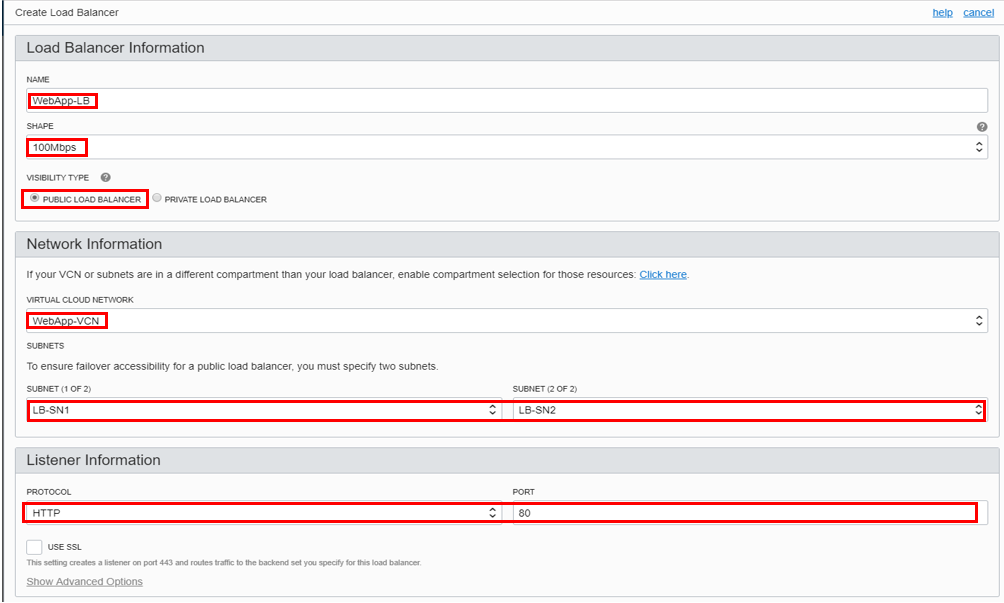
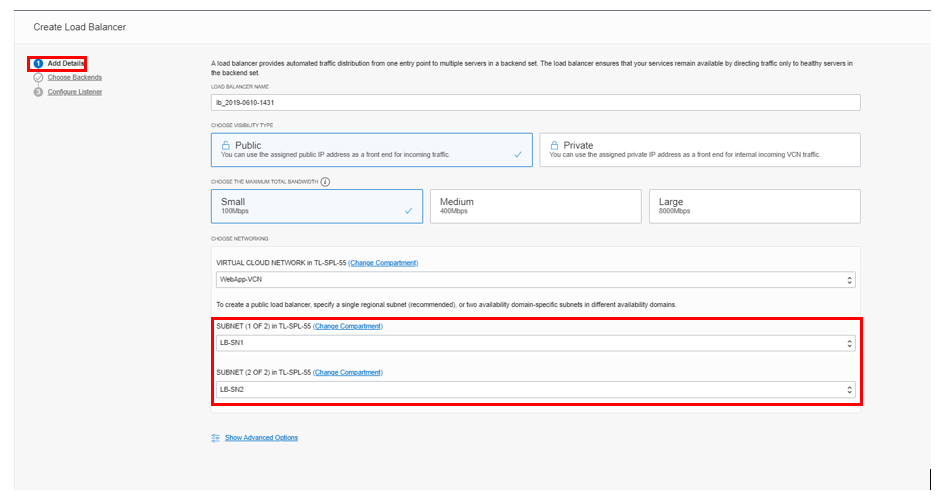
fundamentals lab, UI fixes

diff --git a/oci-library/qloudable/OCI_Fundamentals_Lab/OCI_Fundamentals.md b/oci-library/qloudable/OCI_Fundamentals_Lab/OCI_Fundamentals.md
@@ -279,7 +279,7 @@ We now have two Compute instances with Web servers installed and a basis index.h
 
 Load balancers should always reside in different subnets than your application instances. This allows you to keep your application instances secured in private subnets, while allowing public Internet traffic to the load balancers in the public subnets.
 
-## Create Security List Route table and two subnets
+## Create Security List Route table and additional subnet
 
 In this section we will create a new security list. This security list will be used by the load balancer (that will be created later on). This will ensure all traffic to the two web servers is routed properly.
 
@@ -307,6 +307,8 @@ In this section we will create a new security list. This security list will be u
 - Create in Compartment: This field defaults to your current compartment. Make sure correct Compartment is selected.
 
 **Click +Additional Route Rules**
+
+
 - Target Type: Select **Internet Gateway** 
 - Destination CIDR Block: 0.0.0.0/0 
 - Compartment: Make sure the correct Compartment is selected
@@ -330,6 +332,10 @@ In this section we will create a new security list. This security list will be u
 
 - Name: Enter a name (for example, LB-Subnet-1).
 - Subnet Type: Regional
+
+ **(When using a regional subnet, OCI selects two AD's. If you would like to control which two AD's are used, you would want to create individual AD-speicfic subnets)**
+
+
 - CIDR Block: Enter 10.0.4.0/24 
 - Route Table: Select the Route Table you created earlier.
 - Subnet access: select Public Subnet.
@@ -340,75 +346,59 @@ In this section we will create a new security list. This security list will be u
 
 <img src="https://raw.githubusercontent.com/oracle/learning-library/master/oci-library/qloudable/OCI_Fundamentals_Lab/img/OCI_Fundamentals_004.PNG" alt="image-alt-text" height="200" width="200">
 
-**Second Subnet:** (Your Virtual Cloud Network should be visible in  OCI Console window.)
-
-12. Click **Subnets**.
-
-13. Click **Create Subnet**. Fill out the dialog box:
-
-
-- Name: Enter a name (for example, LB-Subnet-2).
-- Subnet Type: Regional
-- CIDR Block: Enter 10.0.5.0/24 
-- Route Table: Select the Route Table you created earlier.
-- Subnet access: select Public Subnet.
-- DHCP Options: Select the default.
-- Security Lists: Select the Security List you created earlier.
-
-14. Leave all other options as default, Click **Create Subnet**.
 
 ## Create Load Balancer and update Security List
 
-**When you create a load balancer, you choose its shape (size) and you specify two subnets (created earlier) from different Availability Domains. This ensures that the load balancer is highly available and is only active in one subnet at a time.**
+**When you create a load balancer, you choose its shape (size) and you specify subnet (created earlier) from different Availability Domains. This ensures that the load balancer is highly available and is only active in one subnet at a time.**
 
 1. From OCI Services menu, click **Load Balancers** under **Networking**
 
 2. Click **Create Load Balancer**. Fill out the dialog box;
 
-<img src="https://raw.githubusercontent.com/oracle/learning-library/master/oci-library/qloudable/OCI_Fundamentals_Lab/img/OCI_Fundamentals_005.PNG" alt="image-alt-text" height="200" width="200">
-
-**Under Load Balancer Information:**
+**Under Add Details**
 
 
-- Name: Enter a name for your load balancer.
-- Shape: Select 100Mbps. This specifies the bandwidth of the load balancer.
+- LOAD BALANCER NAME: Enter a name for your load balancer.
+- CHOOSE VISIBILITY TYPE: Public
+- CHOOSE THE MAXIMUM TOTAL BANDWIDTH: Select 100Mbps. (This specifies the bandwidth of the load balancer.)
 
 **NOTE:** Shape cannot be changed later.
 
-- Visibility Type: PUBLIC LOAD BALANCER
-
-**Under Network Information:**
-
-
--Virtual Cloud Network: Select the Virtual Cloud Network for your load balancer.
-- Subnet1: Choose the first subnet created earlier
-- Subnet2: Choose the second subnet created earlier 
-
-**Under Listener Information:**
-
-
-- Protocol:  HTTP
-- Port: Enter 80 (as the port on which to listen for incoming traffic)
-
-**Under Backend set Information:**
-
-
-- Traffic Distribution Policy: Weighted Round Robin
-- Choose a compute instance private IP address: Select this option 
-- Compartment: Select your compartment
-- Instance Name: Select the first compute instance
-- Private IP address: Select private ip of compute (if not selected alread)
-- Port: 80
-- Weight: 1
-- Click **+Additional Backend**
-
-**Repeat above steps to add the second compute instance information**
-
-3. Click **Create** 
+- VIRTUAL CLOUD NETWORK: Choose your Virtual Cloud Network
+- SUBNET (1 OF 2): Choose the Regional Subnet we created. 
+- SUBNET (2 OF 2): Choose the Regional Subnet we created. **Ensure to choose different AD then the one in SUBNET(1 OF 2)**
 
 <img src="https://raw.githubusercontent.com/oracle/learning-library/master/oci-library/qloudable/OCI_Fundamentals_Lab/img/OCI_Fundamentals_006.PNG" alt="image-alt-text" height="200" width="200">
 
+**Under Choose Backends:**
+
+
+- SPECIFY A LOAD BALANCING POLICY: Weighted Round Robin
+- Click **Add Backend** and choose the two backend compute instance created earlier
+
 <img src="https://raw.githubusercontent.com/oracle/learning-library/master/oci-library/qloudable/OCI_Fundamentals_Lab/img/OCI_Fundamentals_007.PNG" alt="image-alt-text" height="200" width="200">
+
+
+***Under SPECIFY HEALTH CHECK POLICY***
+
+
+- PROTOCOL: HTTP
+- Port: Enter 80 
+- URL PATH (URI): /
+
+***Leave other options as default***
+
+**Under Configure Listener**
+
+- SPECIFY THE TYPE OF TRAFFIC YOUR LISTENER HANDLES: HTTP
+- SPECIFY THE PORT YOUR LISTENER MONITORS FOR INGRESS TRAFFIC: 80
+
+***Leave other options as default***
+
+
+**Under Backend set Information:**
+
+3. Click **Create Load Balancer** 
 
 4. Wait for the load balancer to become active and then note down it’s Public IP address.
 
